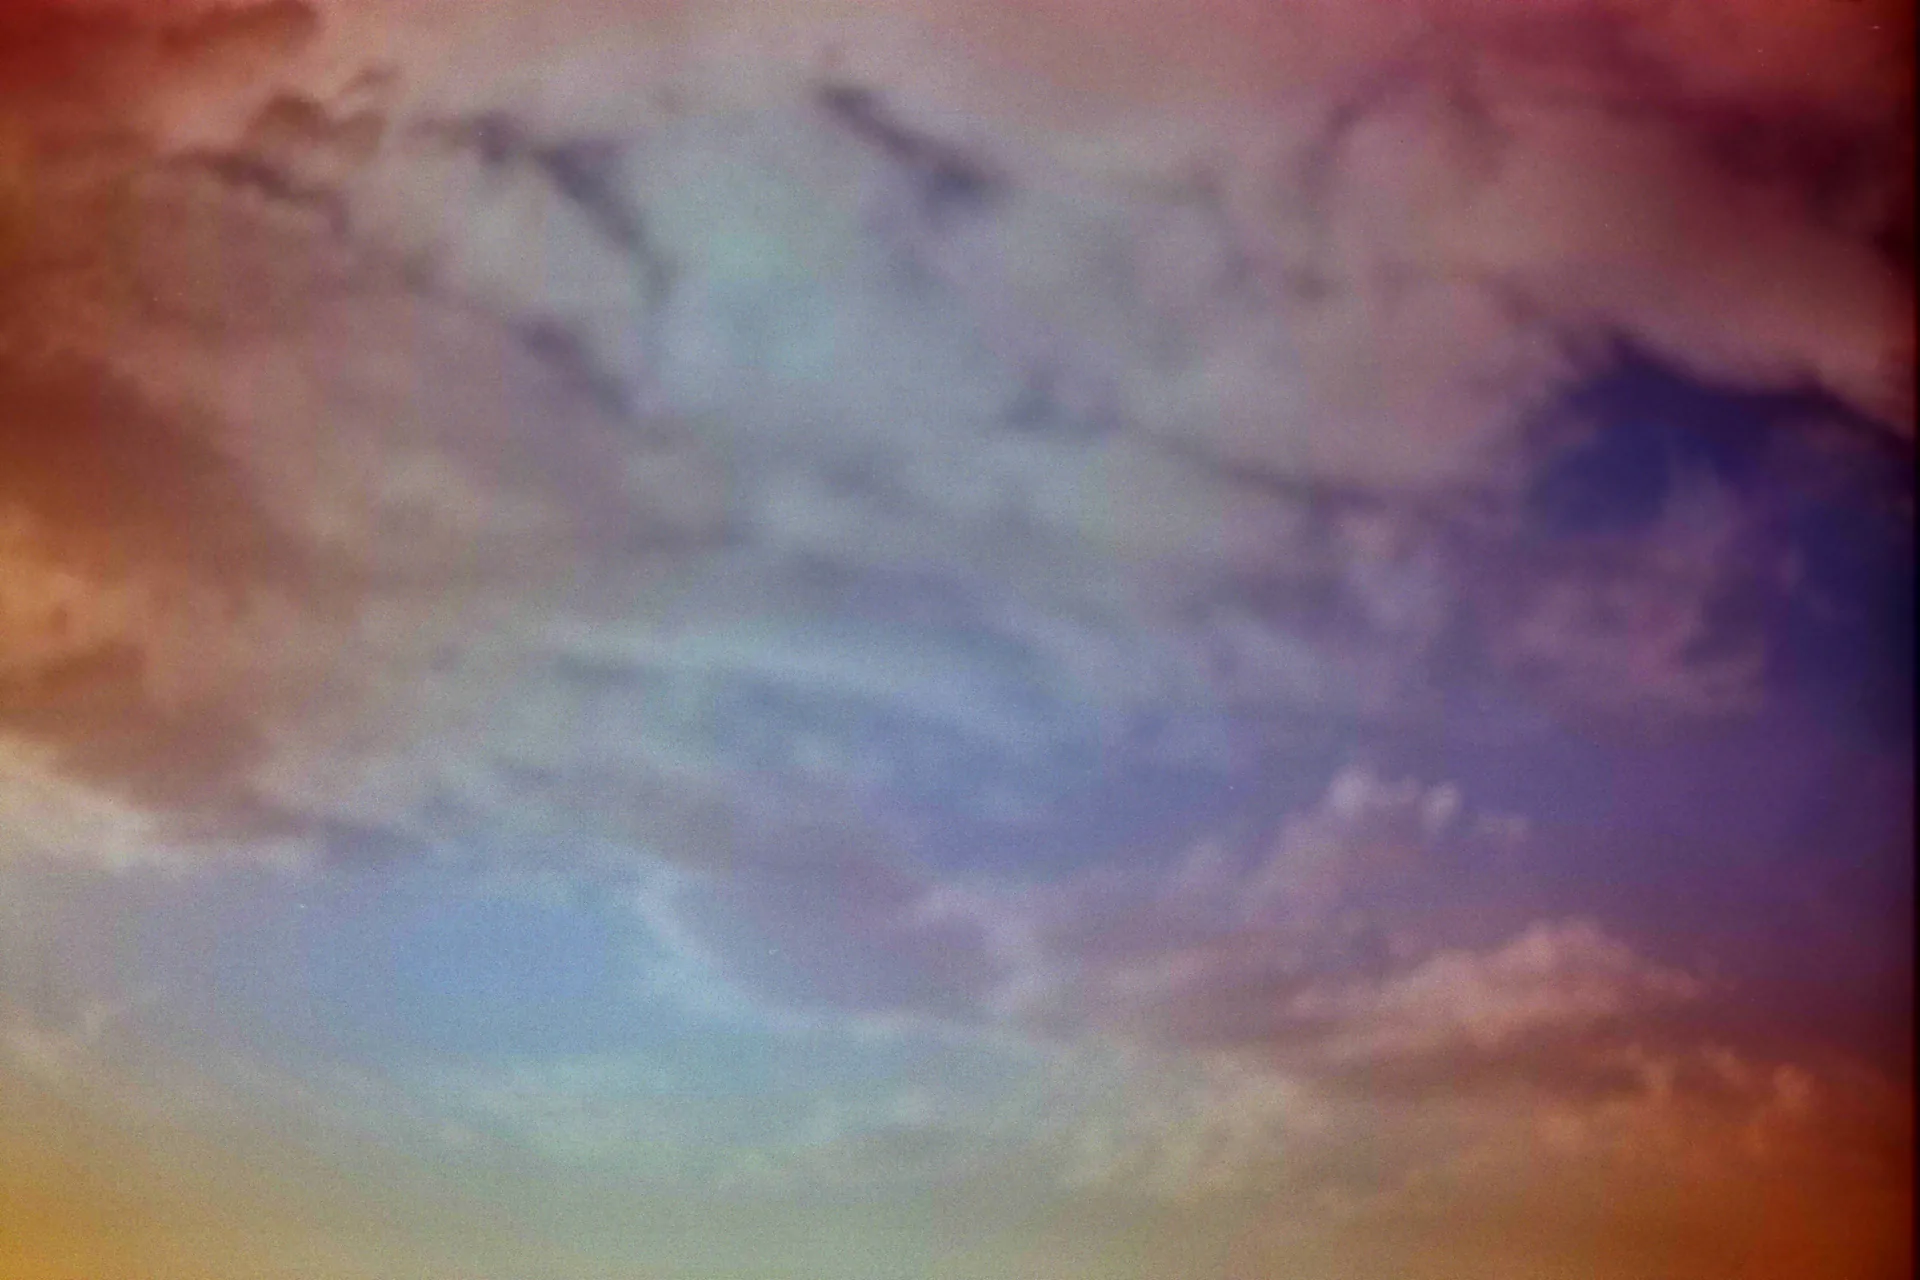
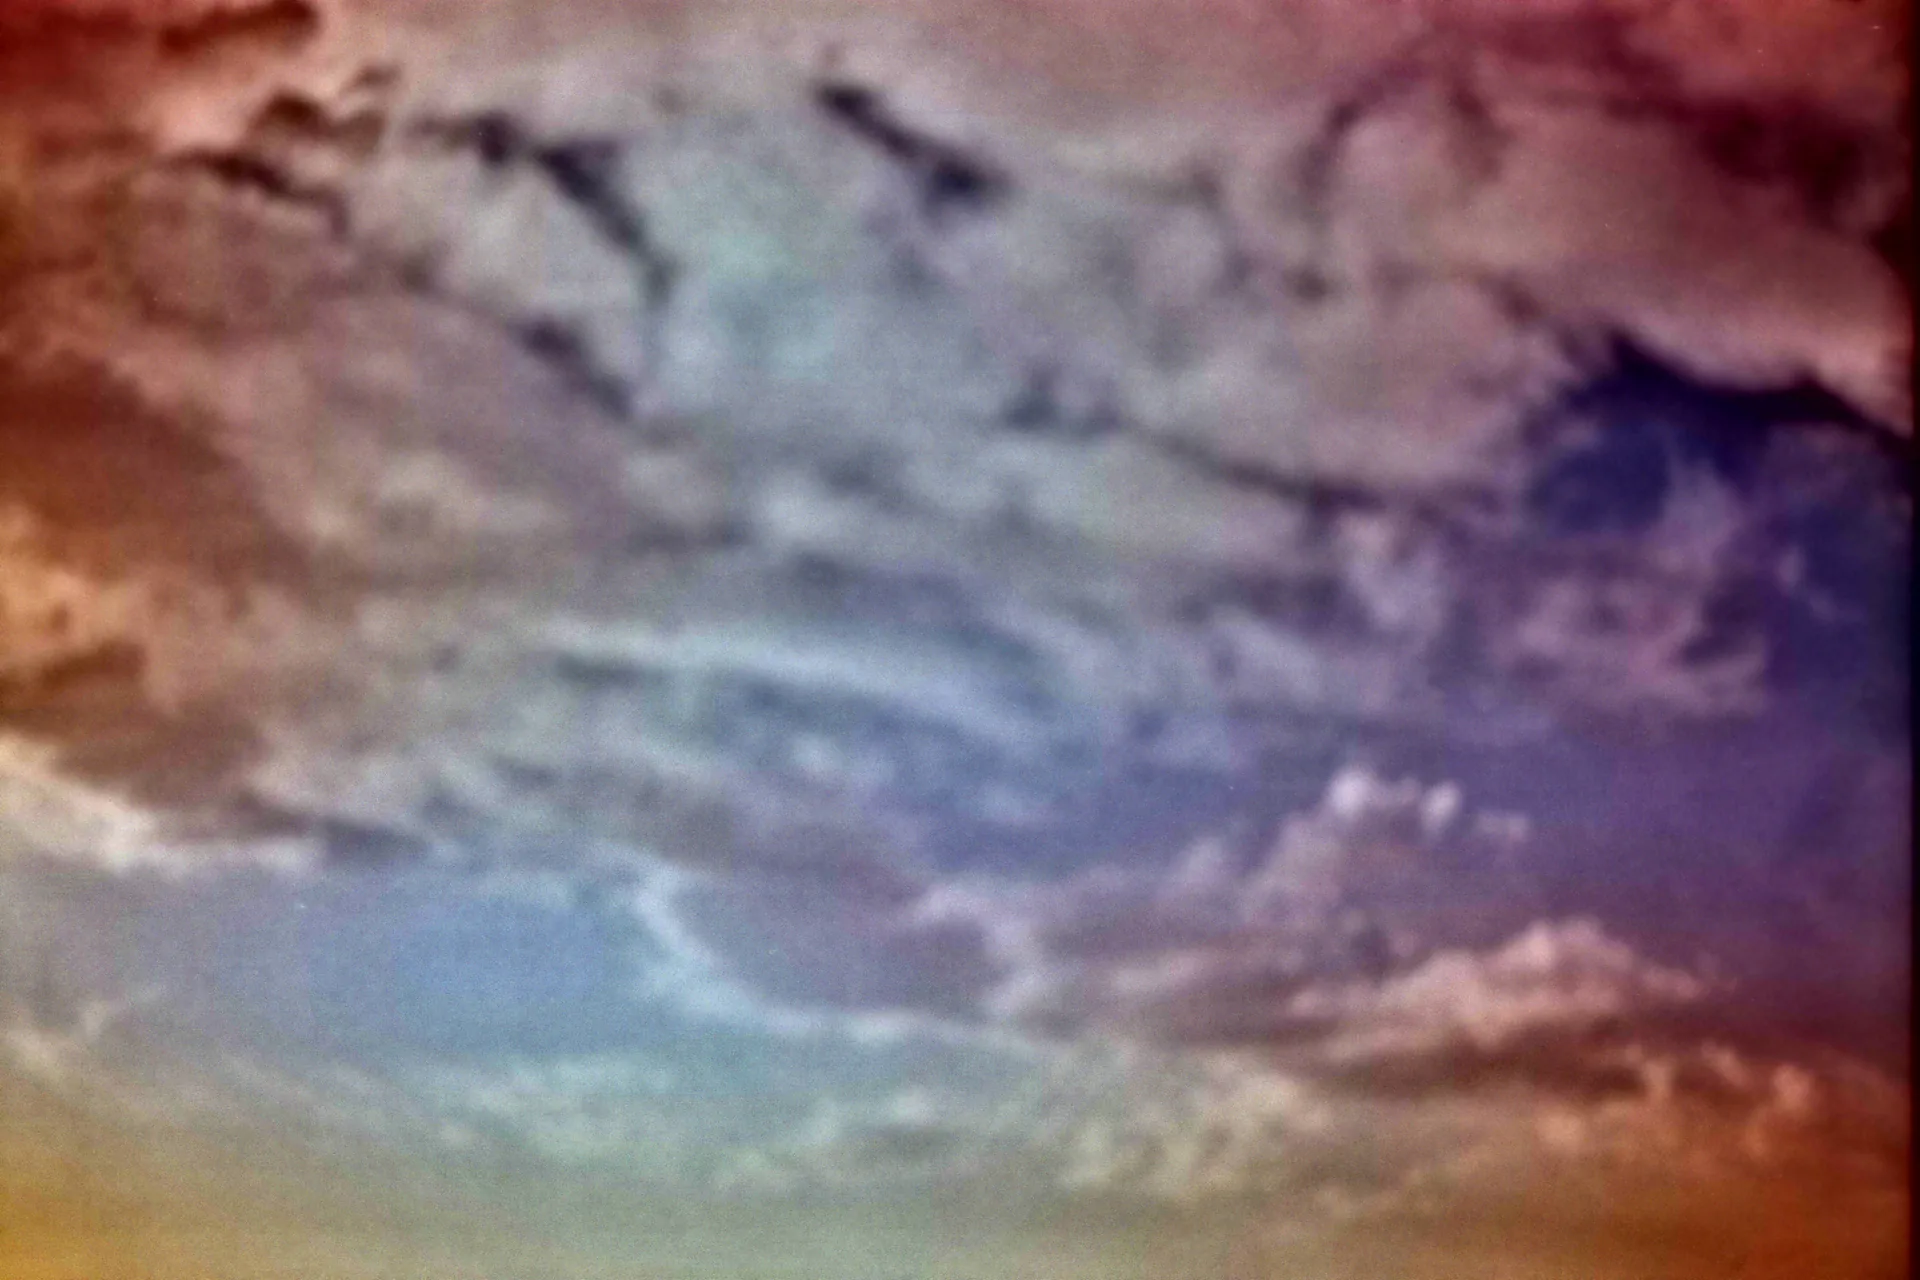
hero: give the sky its clouds back
The first grade left luma untouched on the grounds that it preserved every
cloud edge. True, and not enough. The scan's cloud band carries a standard
deviation of about 5 levels out of 255, so once the regional chroma was
multiplied five times the colour drowned the form and the sky read as a wash.
On a phone, which keeps under a third of a 3:2 frame, there were no clouds
left to see at all.

Luma is now split into three bands. The base carries the exposure and stays
put, the band between grain and base is the cloud structure and is the only
thing multiplied, and grain stays at unity so clarity sharpens the sky without
turning the film stock crunchy.

Measured through the portrait crop: cloud form 5.20 to 13.17, saturation 27.0
to 27.5, so the colour Nick picked is untouched and only the form comes back.
Building with --clarity 1 reproduces the previously shipped asset byte for
byte, so nothing else in the pipeline moved.

The per cell slice checks passed the entire time a wash was live, so the
verifier now scores the sky the server hands out, with a flattened copy of
those same bytes as the control.

diff --git a/tools/build_hero_image.py b/tools/build_hero_image.py
@@ -7,11 +7,23 @@ structure is real and regional: warm on the left and along the bottom, cool
 blue through the lower centre, magenta into violet up the right edge. This
 script amplifies that regional colour without inventing any.
 
-Method: split to YCbCr. Luma is untouched, so every bit of cloud detail and
-film grain survives. Chroma is split into a low frequency part (the region's
+Method: split to YCbCr. Chroma is split into a low frequency part (the region's
 colour, from a heavy gaussian) and a high frequency part (chroma grain). Only
 the low frequency part is multiplied. Keeping the chroma grain at unity is what
 stops the amplified gradients from banding: the grain dithers them for free.
+
+Luma was untouched in the first version and that was the mistake. The scan's
+cloud edges carry a standard deviation of about 5 levels out of 255, so once the
+regional chroma is multiplied five times the colour simply drowns the form and
+the sky reads as a wash rather than as clouds. Measured on the shipped asset
+through the portrait crop a phone actually gets: cloud-form 5.2, saturation 27.
+
+So luma is split into three bands rather than lifted whole. The base (heavy
+gaussian, cloud sized) carries the exposure and stays put. The band between
+grain and base is the cloud structure and is the only thing multiplied. Grain
+sits above it and stays at unity, so clarity sharpens the sky without turning
+the film stock crunchy. Same crop after: cloud-form 13.2, saturation 27.5, so
+the colour Nick picked is untouched and only the form comes back.
 
 Usage:
     python tools/build_hero_image.py                 # ships k=5 to images/
@@ -30,12 +42,26 @@ OUT_DIR = ROOT / "images"
 
 WIDTH = 1920          # long edge of the shipped asset
 QUALITY = 82          # webp quality, chosen by eye on a 1:1 crop
-BLUR_DIVISOR = 24     # gaussian radius = width / this
+BLUR_DIVISOR = 24     # chroma gaussian radius = width / this
+FORM_DIVISOR = 48     # luma base radius, the scale a cloud mass occupies
+GRAIN_DIVISOR = 400   # luma grain radius, everything finer than a cloud edge
 DEFAULT_K = 5         # chroma amplification actually shipped
+DEFAULT_CLARITY = 3   # cloud-band amplification actually shipped
+
+# The portrait view this asset is judged in. A phone keeps under a third of a
+# 3:2 frame, so it is the strict case and the one the wash showed up in.
+# PHONE_FOCUS_X must track HERO_PHOTO.focusX in js/main.js.
+PHONE_ASPECT = 393 / 852
+PHONE_FOCUS_X = 0.78
 
 
-def grade(src: Image.Image, k: float) -> Image.Image:
-    """Amplify regional chroma by k, leaving luma and chroma grain alone."""
+def grade(src: Image.Image, k: float, clarity: float = DEFAULT_CLARITY) -> Image.Image:
+    """Amplify regional chroma by k and cloud-band luma by clarity.
+
+    Both leave their own grain at unity: chroma grain because it dithers the
+    amplified colour gradients, luma grain because multiplying it is what makes
+    a clarity pass look like sharpening instead of like weather.
+    """
     luma, cb, cr = src.convert("YCbCr").split()
     radius = src.size[0] / BLUR_DIVISOR
 
@@ -46,8 +72,17 @@ def grade(src: Image.Image, k: float) -> Image.Image:
         grain = full - low
         out.append(np.clip(128 + (low - 128) * k + grain, 0, 255).astype(np.uint8))
 
+    full = np.asarray(luma, dtype=np.float32)
+    fine = np.asarray(
+        luma.filter(ImageFilter.GaussianBlur(radius=src.size[0] / GRAIN_DIVISOR)), dtype=np.float32
+    )
+    base = np.asarray(
+        luma.filter(ImageFilter.GaussianBlur(radius=src.size[0] / FORM_DIVISOR)), dtype=np.float32
+    )
+    lit = np.clip(base + (fine - base) * clarity + (full - fine), 0, 255).astype(np.uint8)
+
     return Image.merge(
-        "YCbCr", [luma, Image.fromarray(out[0]), Image.fromarray(out[1])]
+        "YCbCr", [Image.fromarray(lit), Image.fromarray(out[0]), Image.fromarray(out[1])]
     ).convert("RGB")
 
 
@@ -58,9 +93,29 @@ def saturation_stats(img: Image.Image) -> tuple[float, float]:
     return float(sat.mean()), float(np.percentile(sat, 95))
 
 
+def cloud_form(img: Image.Image) -> float:
+    """Standard deviation of the cloud-sized luma band. How much sky reads as cloud.
+
+    Measured through the crop a portrait phone actually gets, since that is the
+    view where the wash was visible and the desktop one was not.
+    """
+    a = np.asarray(img, dtype=np.float32)
+    luma = Image.fromarray(
+        (0.299 * a[..., 0] + 0.587 * a[..., 1] + 0.114 * a[..., 2]).astype(np.uint8)
+    )
+    w, h = img.size
+    fine = np.asarray(luma.filter(ImageFilter.GaussianBlur(radius=w / GRAIN_DIVISOR)), np.float32)
+    base = np.asarray(luma.filter(ImageFilter.GaussianBlur(radius=w / FORM_DIVISOR)), np.float32)
+    keep = round(w * (PHONE_ASPECT / (w / h)))
+    x0 = round((w - keep) * PHONE_FOCUS_X)
+    return float((fine - base)[:, x0:x0 + keep].std())
+
+
 def main() -> None:
     ap = argparse.ArgumentParser()
     ap.add_argument("--all", action="store_true", help="also write k=3,4,6 as preview assets")
+    ap.add_argument("--clarity", type=float, default=DEFAULT_CLARITY,
+                    help="cloud-band amplification (1 is the flat original)")
     args = ap.parse_args()
 
     src = Image.open(SOURCE).convert("RGB")
@@ -72,11 +127,12 @@ def main() -> None:
         targets += [(k, OUT_DIR / f"hero-sky-k{k}.webp") for k in (3, 4, 6)]
 
     for k, path in targets:
-        img = grade(src, k)
+        img = grade(src, k, args.clarity)
         img.save(path, "WEBP", quality=QUALITY, method=6)
         mean, p95 = saturation_stats(img)
-        print(f"{path.name:22s} k={k}  {path.stat().st_size:>7,} bytes  "
-              f"saturation mean {mean:.1f}%  p95 {p95:.1f}%")
+        print(f"{path.name:22s} k={k} clarity={args.clarity}  {path.stat().st_size:>7,} bytes  "
+              f"saturation mean {mean:.1f}%  p95 {p95:.1f}%  "
+              f"cloud form {cloud_form(img):.2f}")
 
 
 if __name__ == "__main__":

diff --git a/tools/verify_hero.py b/tools/verify_hero.py
@@ -18,9 +18,17 @@ import colorsys
 import io
 import statistics
 import sys
+import urllib.parse
+import urllib.request
 
+import numpy as np
 from PIL import Image
 from playwright.sync_api import sync_playwright
+
+# The asset check below scores the served sky with the builder's own metric
+# rather than a second copy of it, so the two cannot drift apart. sys.path[0] is
+# this directory, and build_hero_image does nothing at import beyond defining.
+import build_hero_image  # noqa: E402
 
 URL = sys.argv[1] if len(sys.argv) > 1 else "http://127.0.0.1:8777/index.html"
 PROBE_CELL = 40
@@ -418,6 +426,37 @@ with sync_playwright() as pw:
         )
         check(f"{label}: every cell has a photo slice", r["n"] == r["photo"], f"{r['photo']}/{r['n']}")
         p.close()
+    # The slice checks above pass whether the sky reads as cloud or as a smear,
+    # which is how the first version shipped as a colour wash. These score the
+    # asset the server actually hands out, through the portrait crop a phone
+    # gets, which is the strict view: it keeps under a third of the frame.
+    served = urllib.request.urlopen(  # noqa: S310  (fixed scheme, own server)
+        urllib.parse.urljoin(URL, "images/hero-sky.webp"), timeout=30
+    ).read()
+    sky = Image.open(io.BytesIO(served)).convert("RGB")
+    form = build_hero_image.cloud_form(sky)
+
+    # The control is the flat sky that actually shipped, rebuilt out of these
+    # same bytes by scaling the cloud band back down by the clarity that was
+    # applied to it. Without a control the floor is a number nobody has shown a
+    # failing image can fall under. A first attempt at this used a plain
+    # gaussian and scored 10.86, over the floor, because a blur at grain scale
+    # leaves the cloud band standing: it would have passed on a smeared sky.
+    flat = build_hero_image.grade(sky, 1, 1 / build_hero_image.DEFAULT_CLARITY)
+    flat_form = build_hero_image.cloud_form(flat)
+
+    a = np.asarray(sky, dtype=np.float32)
+    keep = round(sky.size[0] * (build_hero_image.PHONE_ASPECT / (sky.size[0] / sky.size[1])))
+    x0 = round((sky.size[0] - keep) * build_hero_image.PHONE_FOCUS_X)
+    window = a[:, x0:x0 + keep]
+    mx, mn = window.max(2), window.min(2)
+    sat = float((np.where(mx > 0, (mx - mn) / np.maximum(mx, 1), 0) * 100).mean())
+
+    check("the sky the server hands out reads as cloud, not as a wash",
+          form > 9.0, f"cloud form {form:.2f}, the flat version scored 5.20")
+    check("that reading can tell a flat sky apart", flat_form < 9.0,
+          f"blurred control scored {flat_form:.2f}")
+    check("the colour survived the clarity pass", sat > 24.0, f"saturation {sat:.1f}%")
     b.close()
 
 print("\n" + ("ALL PASS" if not FAILS else f"{len(FAILS)} FAILED: {FAILS}"))
